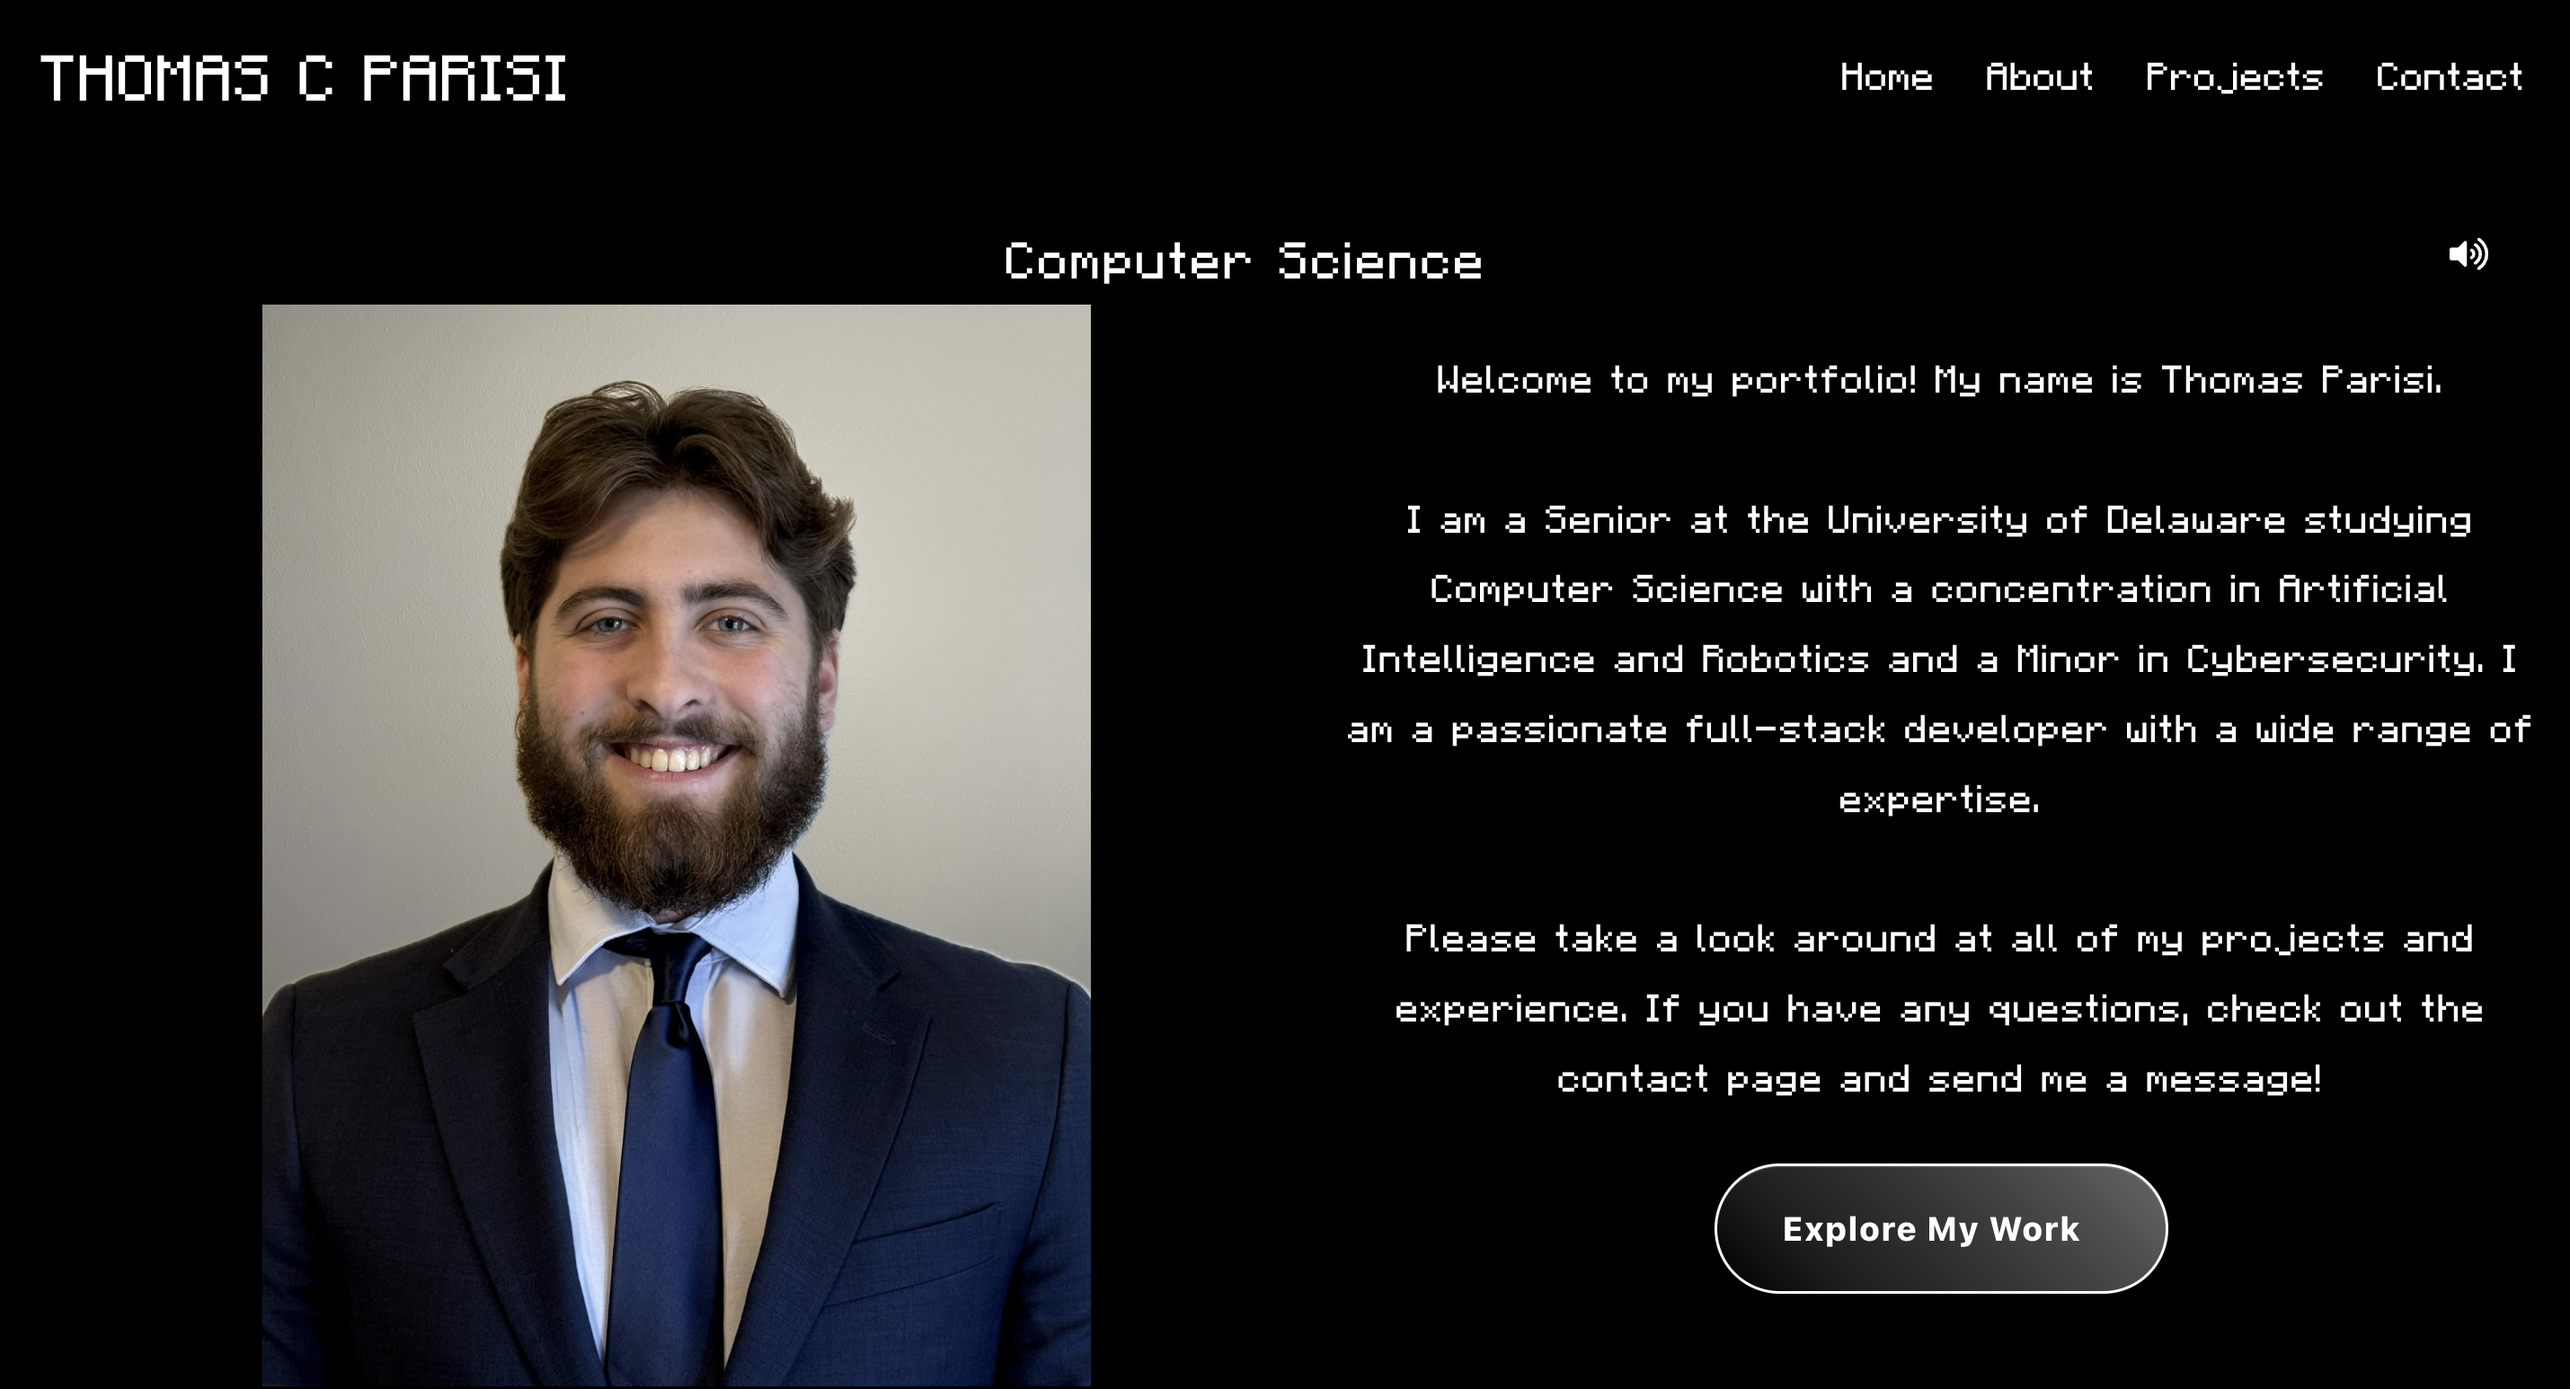
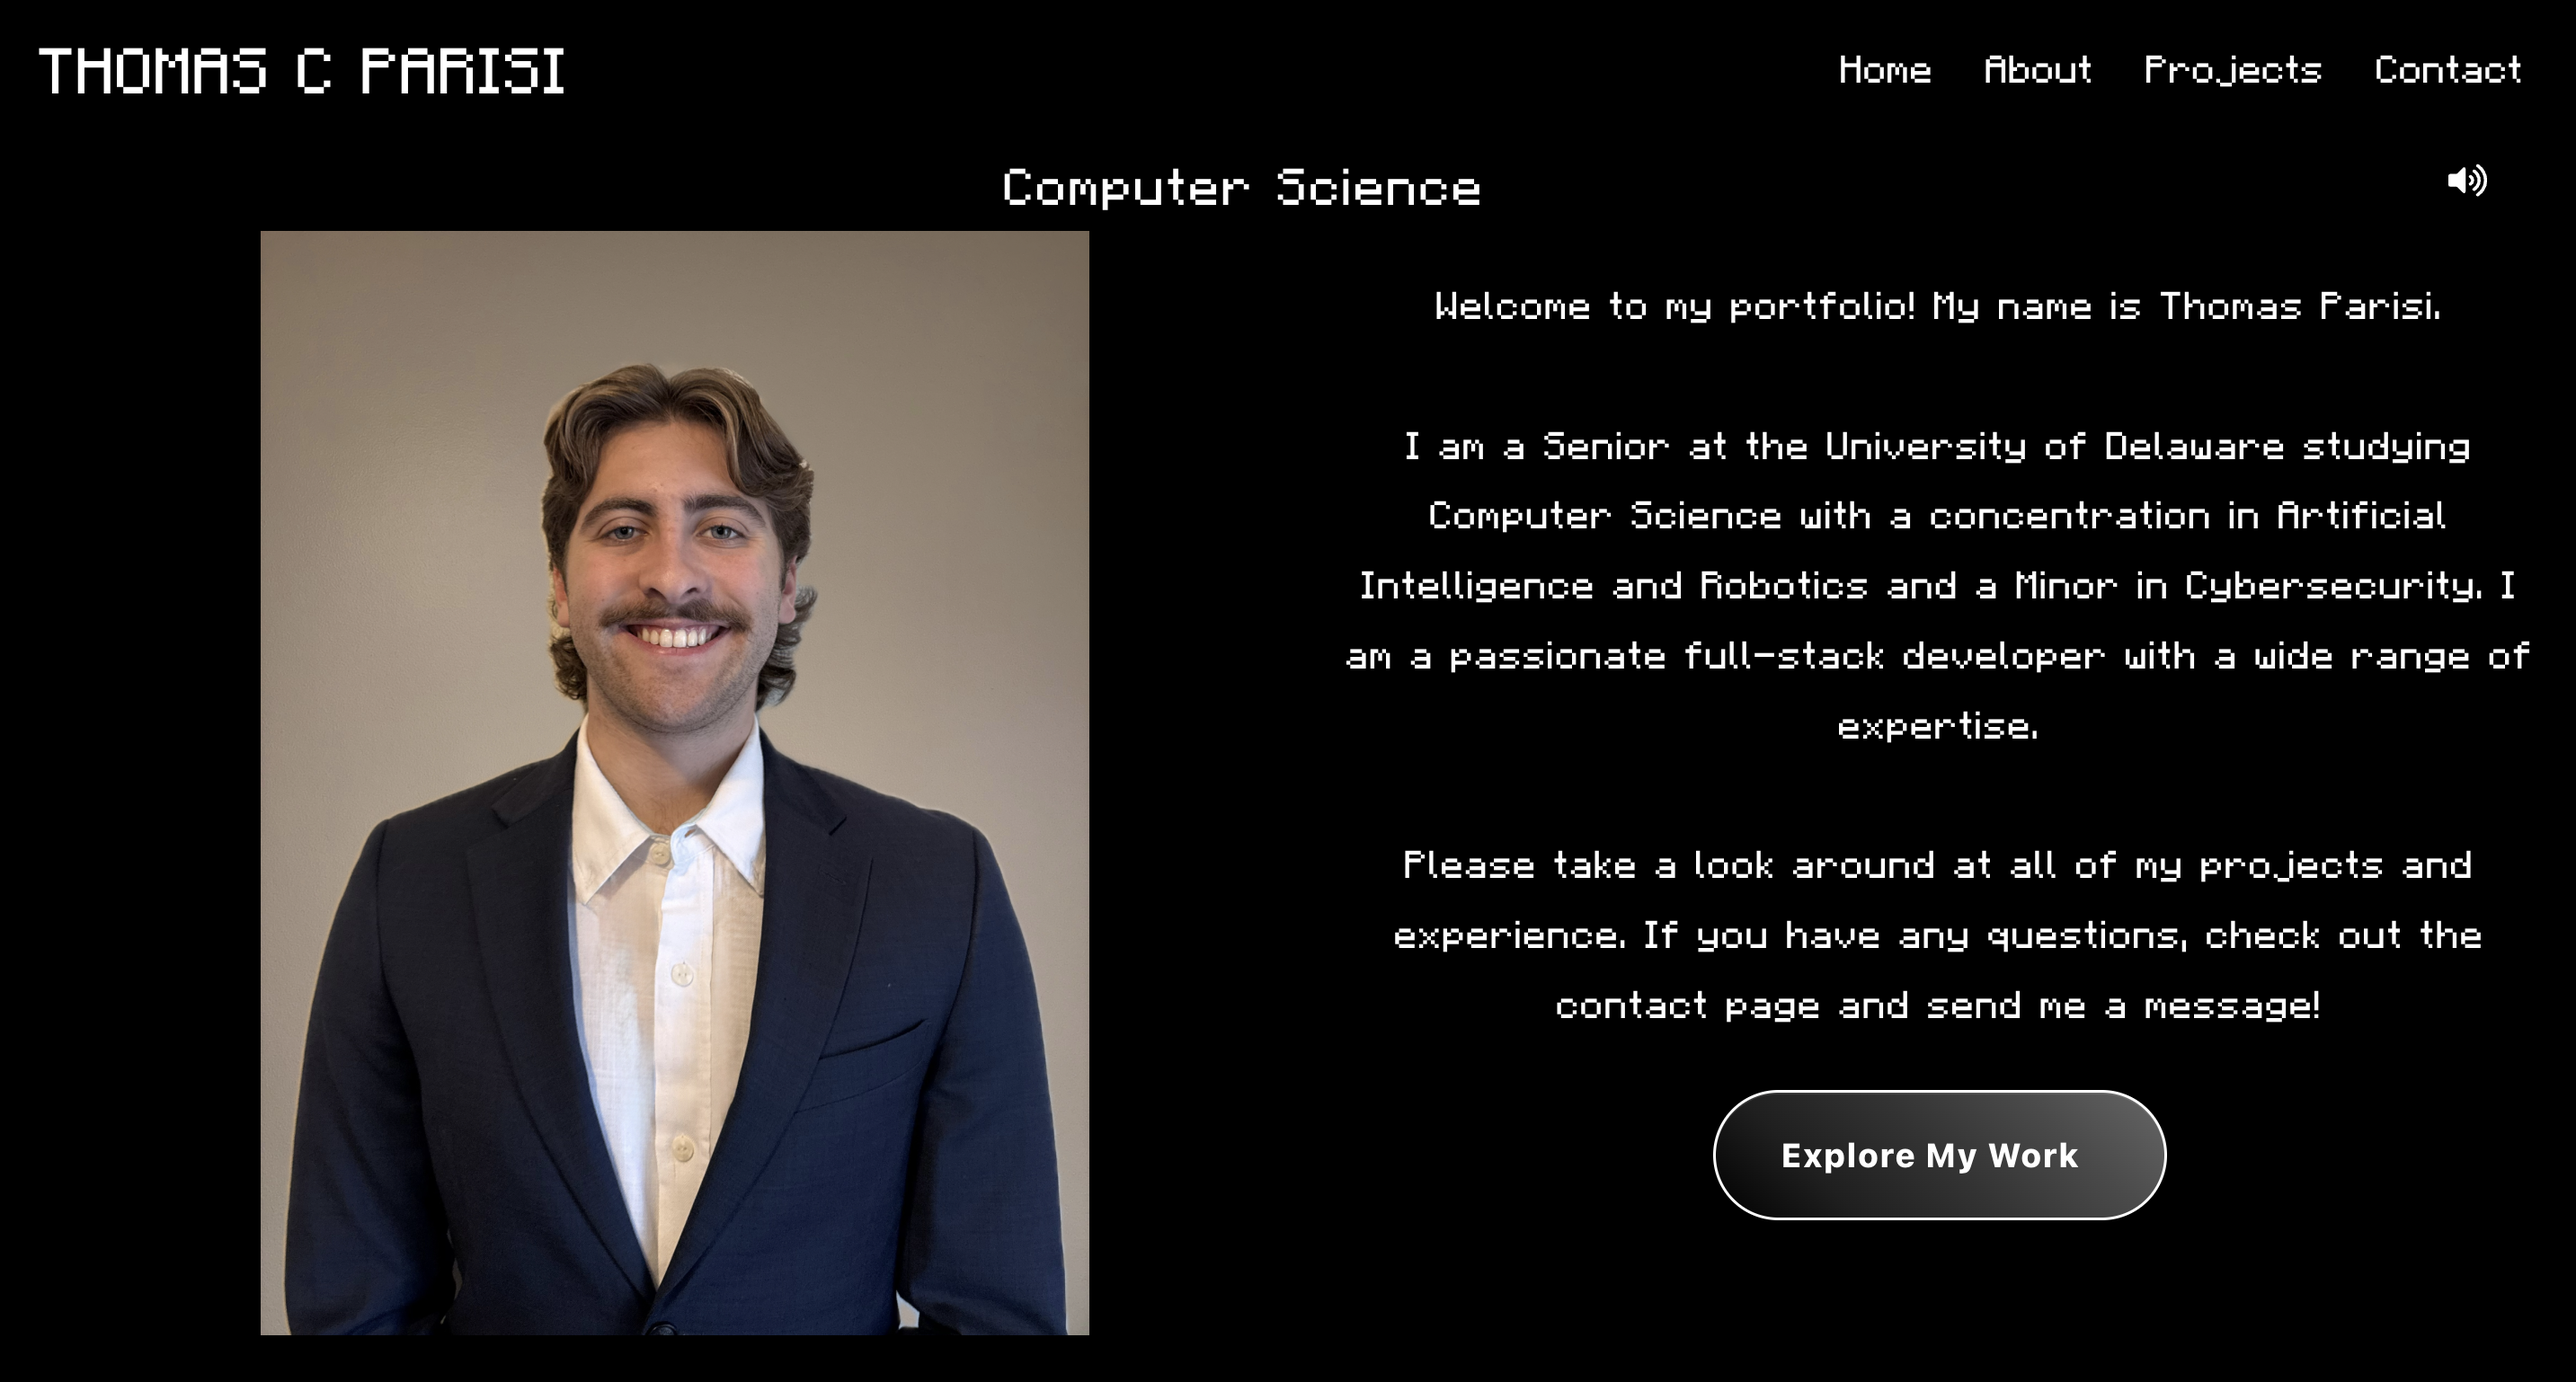
tommyparisi.com v1.0

diff --git a/my-portfolio/src/pages/about.tsx b/my-portfolio/src/pages/about.tsx
@@ -1,4 +1,5 @@
 import React from "react";
+import profileImage from "/public/assets/profile-image.jpg";
 const AboutPage: React.FC = () => {
   return (
     <main className="about-root">
@@ -38,11 +39,9 @@ const Hero: React.FC = () => (
           </div>
         </div>
       </div>
-
       <div className="hero-portrait" aria-hidden>
-        {/* Swap this with a real image */}
         <div className="portrait-frame">
-          <div className="portrait" />
+          <img src={profileImage} alt="Profile" className="portrait" />
         </div>
       </div>
     </div>
@@ -52,10 +51,10 @@ const Hero: React.FC = () => (
 const QuickFacts: React.FC = () => (
   <section className="facts" aria-label="Quick facts">
     <div className="facts-grid">
-      <Fact kpi="20+" label="Codes coded" />
-      <Fact kpi="1M+" label="Racks I done stacked" />
-      <Fact kpi="80%" label="Of bitches fw it" />
       <Fact kpi="4000+" label="UD Computer Science student users (Sage Discord Bot)" />
+      <Fact kpi="2025" label="Graduating UD Computer Science class" />
+      <Fact kpi="100%" label="Self-Hosted Infrastructure" />
+      <Fact kpi="∞" label="Curiosity & Creativity" />
     </div>
   </section>
 );
@@ -145,24 +144,66 @@ const Skills: React.FC = () => (
     <h2>Skills</h2>
     <div className="skill-columns">
       <SkillColumn
-        title="Languages"
-        items={["TypeScript", "Python", "C/C++", "SQL", "GDScript", "Java"]}
-      />
-      <SkillColumn
-        title="Frameworks & Tools"
-        items={["React/Vite", "Node.js", "Tauri", "Svelte", "Godot 4", "OpenCV"]}
+        title="Languages, Frameworks & Libraries"
+        items={[
+          "TypeScript",
+          "Python",
+          "C/C++",
+          "Java",
+          "SQL",
+          "GDScript",
+          "React/Vite",
+          "Node.js",
+          "Svelte",
+          "Tauri",
+          "Godot 4",
+          "OpenCV"
+        ]}
       />
       <SkillColumn
         title="AI/ML & Data"
-        items={["Embeddings", "HDBSCAN", "NLP", "Recommenders", "Pandas/NumPy", "ETL"]}
+        items={[
+          "Embeddings & NLP",
+          "Recommender Systems",
+          "Collaborative Filtering",
+          "Computer Vision",
+          "Deep Learning",
+          "Image Segmentation",
+          "Stereo Vision (Disparity Mapping)",
+          "Pandas/NumPy",
+          "ETL"
+        ]}
       />
       <SkillColumn
-        title="Platforms & DevOps"
-        items={["Docker", "Git/GitHub", "Linux", "Observability", "CI/CD Basics"]}
+        title="Systems & Platforms"
+        items={[
+          "Docker",
+          "Linux Server Admin",
+          "Nginx",
+          "Self-Hosting",
+          "Tailscale VPN",
+          "System Hardening (UFW, SSH Keys)",
+          "Git/GitHub",
+          "CI/CD Basics"
+        ]}
+      />
+      <SkillColumn
+        title="Cybersecurity & Research"
+        items={[
+          "CAPTCHA Automation & Robustness",
+          "Adversarial Testing",
+          "Secure Configurations",
+          "Network Security",
+          "Observability",
+          "Experiment Design",
+          "Academic Research Collaboration"
+        ]}
       />
     </div>
   </section>
 );
+
+
 
 const SkillColumn: React.FC<{ title: string; items: string[] }> = ({ title, items }) => (
   <div className="skill-col">

diff --git a/my-portfolio/src/pages/projects.tsx b/my-portfolio/src/pages/projects.tsx
@@ -78,7 +78,7 @@ const PROJECTS: Project[] = [
       "Implemented containerized Jellyfin media server with Docker for streaming and media management",
       "Maintain system reliability through regular updates, resource monitoring, and service uptime checks"
     ],
-    tech: ["Linux", "Ubuntu", "Tailscale", "SSH", "UFW", "Docker", "Jellyfin", "Web Hosting", "System Administration", "Domain Configuration"],
+    tech: ["Linux", "Ubuntu", "Tailscale", "SSH", "UFW", "Docker", "Jellyfin", "Web Hosting", "System Administration", "Domain Configuration", "Nginx"],
     image: "/src/assets/server.png",
     year: 2025,
     complexity: 3,
@@ -339,7 +339,7 @@ const Header: React.FC = () => (
     <div className="title">
       <h1>Projects</h1>
       <p>
-        A curated selection of shipped apps, research builds, and tools. Built
+        A curated selection of projects built in class, through internships, and on my own. Built
         end‑to‑end with a focus on product impact, reliability, and craft.
       </p>
     </div>

diff --git a/my-portfolio/src/pages/home.tsx b/my-portfolio/src/pages/home.tsx
@@ -11,7 +11,7 @@ export default function Home() {
       <div style={{ display: 'flex', flexDirection: 'row', gap: '2rem' }}>
         <div style={{ flex: '0 0 50%', display: 'flex', justifyContent: 'center' }}>
           <img 
-            src="/assets/profile-image.jpg" 
+            src="src/assets/headshot.jpg" 
             alt="Profile" 
             className="rounded-lg shadow-lg w-32 h-auto object-cover"
             style={{ maxWidth: '512px', width: '100%' }}

diff --git a/my-portfolio/src/pages/contact.tsx b/my-portfolio/src/pages/contact.tsx
@@ -34,7 +34,7 @@ const ContactLinks: React.FC = () => {
   const [phoneCopied, setPhoneCopied] = useState(false);
   
   const email = "tcparisi55@gmail.com";
-  const phone = "(302) 545-7734";
+  const phone = "(315) 949-0106";
 
   const copyEmail = async () => {
     try {
